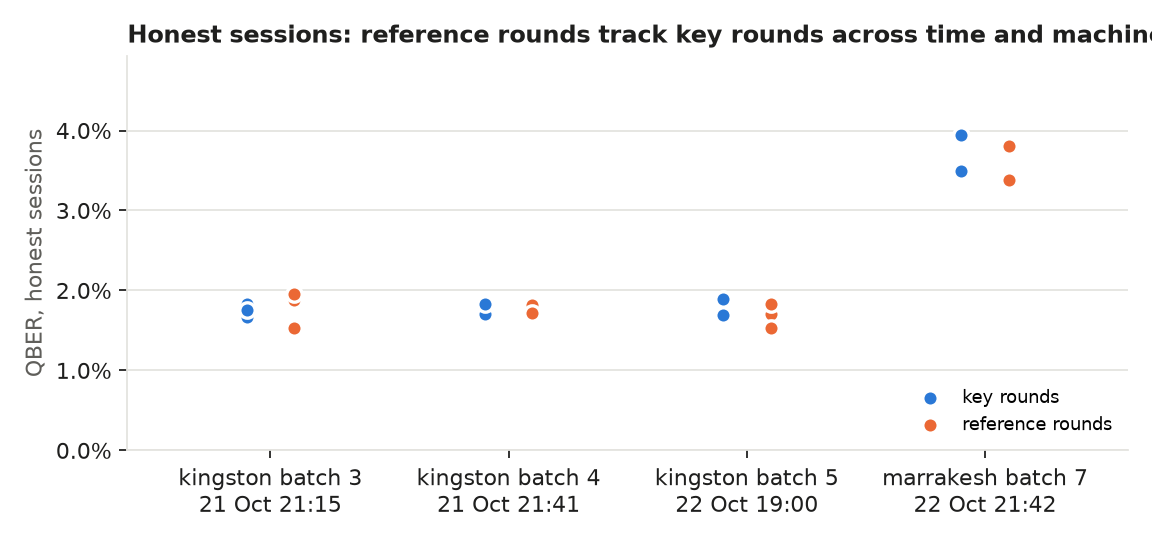
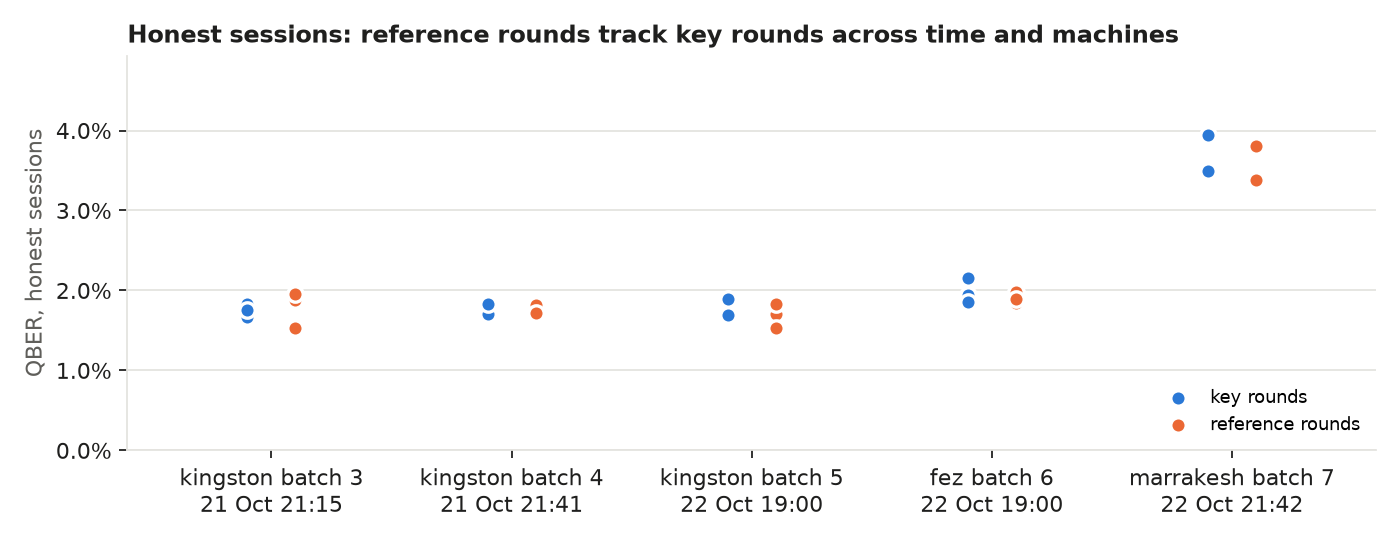
Add ibm_fez batch 6: third machine, 7 of 7 attacks flagged

diff --git a/scripts/figures.py b/scripts/figures.py
@@ -107,7 +107,7 @@ def drift() -> None:
     jobs = lessons[lessons["job_id"].isin(s["job_id"])].assign(t=lambda d: pd.to_datetime(d["submitted"]))
     jobs = jobs.sort_values("t").reset_index(drop=True)
 
-    fig, ax = plt.subplots(figsize=(7.2, 3.4))
+    fig, ax = plt.subplots(figsize=(max(7.2, 1.75 * len(jobs)), 3.4))
     kw = dict(s=48, edgecolors="white", linewidths=1.5, zorder=3)
     for i, job in jobs.iterrows():
         b = s[s["job_id"] == job["job_id"]]

diff --git a/README.md b/README.md
@@ -11,9 +11,11 @@ Quantum Key Distribution (QKD), built with Qiskit and run on IBM Quantum hardwar
 **Result on `ibm_kingston`:** across three batches 22 hours apart, Nirikshak flagged all 21
 attacked sessions (p ≤ 0.0002), including an eavesdropper touching 1 of 16 rounds, and none of
 the 9 honest ones. The textbook 11% rule caught only the largest attack, and BB84 would have kept
-producing keys through the rest. On a second, noisier machine (`ibm_marrakesh`, honest QBER 3.6%)
-it caught all 7 attacks with no retuning, while detectors trained in simulation flagged 78-83% of
-honest blocks there, and up to 88% elsewhere once noise shifted.
+producing keys through the rest. On two more machines it caught every attack with no retuning:
+7 of 7 on the noisier `ibm_marrakesh` (honest QBER 3.6%), where detectors trained in simulation
+flagged 78-83% of honest blocks, and 7 of 7 on `ibm_fez` (2.0%). Across all three machines:
+35 of 35 attacked sessions flagged, 0 of 15 honest ones. Trained detectors flagged up to 88% of
+honest blocks once noise shifted.
 
 </div>
 
@@ -162,7 +164,7 @@ flowchart LR
 | Language | Python 3.11+ (developed on 3.12) |
 | Quantum SDK | Qiskit 2.6.0, Qiskit IBM Runtime 0.50.0 (Sampler V2, job mode) |
 | Simulation | Qiskit Aer 0.18.0 (matrix product state), `FakeKingston` noise |
-| Hardware | IBM Quantum Open Plan, `ibm_kingston` and `ibm_marrakesh` (Heron r2) |
+| Hardware | IBM Quantum Open Plan, `ibm_kingston`, `ibm_marrakesh` and `ibm_fez` (Heron r2) |
 | ML | scikit-learn 1.9.1, XGBoost 3.4.1 |
 | Detectors | 11% QBER rule, sim-calibrated threshold, Random Forest, XGBoost, Nirikshak (per-session conformal) |
 | Statistics | Split-conformal thresholds, permutation test (session verdict), Clopper-Pearson intervals (SciPy) |
@@ -420,6 +422,23 @@ The 1 of 16 attack shows why the session verdict is the decision: on a noisier m
 its 20 blocks crossed the block threshold, but pooling all 20 against the reference blocks still
 flagged the session.
 
+### Third machine: `ibm_fez`, batch 6 (job `dbd104pgv2cc738h5m80`, submitted 22 Oct 19:01, ran 23 Oct 01:16)
+
+Same circuits and settings, nothing retuned. Fez's noise floor (honest QBER 1.9-2.2%, reference
+rounds 1.8-2.0%) is close to kingston's.
+
+| Condition | Key QBER | BB84 key rate | Session verdict | Nirikshak, per block | 11% rule, per block |
+| :--- | :-: | :-: | :-: | :-: | :-: |
+| Honest (3 sessions) | 1.9-2.2% | 0.70-0.73 | **0 of 3 flagged** | 8% (3%-18%) | 0% |
+| Intercept-resend, 1 of 16 rounds | 3.2% | 0.59 | **attack**, p = 0.0004 | 35% | 0% |
+| Intercept-resend, 2 of 16 rounds | 5.2% | 0.41 | **attack** | 95% | 0% |
+| Intercept-resend, 4 of 16 rounds | 7.6% | 0.22 | **attack** | 100% | 5% |
+| Intercept-resend, 8 of 16 rounds | 13.5% | 0 (abort) | **attack** | 100% | 85% |
+| Entangling probe (3 settings) | 4.3-5.7% | 0.37-0.49 | **attack** (3 of 3) | 35-90% | 0% |
+
+Here the noise matches the simulation, so the sim-trained detectors also behave (5-10% honest
+blocks flagged); Nirikshak needed no such luck on any of the three machines.
+
 ### Simulation: does the session verdict keep its 5% budget?
 
 | Simulated condition | Honest sessions | Flagged |
@@ -433,7 +452,7 @@ flagged the session.
 
 Every detector except Nirikshak is trained or calibrated on simulated data
 (`data/sim/train.parquet`) for 5% false alarms per block, then tested on drifted simulation, a
-Kingston noise snapshot and five hardware batches on two machines.
+Kingston noise snapshot and six hardware batches on three machines.
 
 | Detector | False alarms per block, worst test set | Where |
 | :--- | :-: | :--- |
@@ -443,7 +462,7 @@ Kingston noise snapshot and five hardware batches on two machines.
 | XGBoost + reference features | 25% | real hardware, batch 2 |
 | **Nirikshak** (block alarms) | **13%** (0-8% on the other sets) | real hardware, batch 5 |
 
-- When hardware noise happens to match the simulation (batches 3-5, 1.7%), the sim-trained
+- When hardware noise happens to match the simulation (kingston batches 3-5, 1.7%; `ibm_fez`, 2.0%), the sim-trained
   detectors work and detect slightly more per block than Nirikshak.
 - When it does not, they flag most honest blocks: 78-83% on `ibm_marrakesh` (3.6% noise floor),
   82-88% on batch 2 (4%) and in drifted simulation. Nirikshak flags 3% on marrakesh. In the Kingston snapshot they instead miss small attacks (22-28% vs 78%).
@@ -460,6 +479,7 @@ Kingston noise snapshot and five hardware batches on two machines.
 | 3 (`dbcdsck24mrc73cjek9g`) | matched, spin echo | 1.7% | 1.6-1.75%: fair and low |
 | 4 (`dbce8c0c77vs738641j0`) | matched, spin echo | 1.75% | 1.8-1.9% |
 | 5 (`dbd0vo424mrc73cki1l0`) | matched, spin echo, 21 h later | 1.8% | 1.6-2.5% |
+| 6, `ibm_fez` (`dbd104pgv2cc738h5m80`) | matched, spin echo | 2.0% | 1.8-2.0% |
 | 7, `ibm_marrakesh` (`dbd3bts24mrc73cklb10`) | matched, spin echo | 3.6% | 3.6-4.5% |
 
 Batch 1's detection rates (100% everywhere) were inflated by this artifact and are not
@@ -495,9 +515,9 @@ operator integration.
 
 ### Limitations
 
-- Two backends: three usable `ibm_kingston` batches over 22 hours and one `ibm_marrakesh` batch,
-  3 sessions per condition per batch.
-  Nine honest hardware sessions bound the session false-alarm rate only to 0-34%; the 5% claim
+- Three backends: three usable `ibm_kingston` batches over 22 hours, one `ibm_marrakesh` and one
+  `ibm_fez` batch, 3 sessions per condition per batch.
+  Fifteen honest hardware sessions (all clean) bound the session false-alarm rate only to 0-22%; the 5% claim
   rests on 600 simulated honest sessions.
 - Block alarms vary between sessions (up to 15% of one honest hardware session's blocks), because
   each session's threshold comes from 20 reference blocks. The session verdict does not have
@@ -543,7 +563,7 @@ The IBM Quantum Open Plan gives 10 minutes (600 s) of quantum time per rolling 2
 window per account; check yours with `get_service().usage()`. Session mode is not
 available; use job or batch mode. At most 3 jobs can be queued or running at once.
 IBM's quick usage estimate is `2 + 0.00035 x executions` seconds per job; a 10-session batch
-(25,600 executions) used 10 s. Used so far: 63 s of 600 on one account. Test every
+(25,600 executions) used 10 s. Used so far: 73 s of 600 on one account. Test every
 circuit on the simulator first, and combine circuits into few large jobs.
 
 ---

diff --git a/results/scorecard.md b/results/scorecard.md
@@ -84,6 +84,21 @@ Not used for claims: plain idle raised the noise floor (superseded by spin echo)
 | probe pi/4, 8/16 | 3.7% | 2.0% | 0.55 | 12/20 | 0/20 | 0.0001 | **attack** |
 | probe pi/4, 16/16 | 5.3% | 2.0% | 0.41 | 19/20 | 0/20 | 0.0001 | **attack** |
 
+### `ibm_fez` batch 6 (timing matched, spin echo, job `dbd104pgv2cc738h5m80`)
+
+| Session | Key QBER | Reference QBER | Key rate | Nirikshak blocks | 11% rule blocks | Session p-value | Session verdict |
+| :--- | :-: | :-: | :-: | :-: | :-: | :-: | :-: |
+| honest | 1.9% | 1.8% | 0.72 | 1/20 | 0/20 | 0.2814 | clean |
+| honest | 1.9% | 2.0% | 0.73 | 0/20 | 0/20 | 0.7557 | clean |
+| honest | 2.2% | 1.9% | 0.70 | 4/20 | 0/20 | 0.0972 | clean |
+| intercept 1/16 | 3.2% | 2.2% | 0.59 | 7/20 | 0/20 | 0.0004 | **attack** |
+| intercept 2/16 | 5.2% | 2.0% | 0.41 | 19/20 | 0/20 | 0.0001 | **attack** |
+| intercept 4/16 | 7.6% | 1.9% | 0.22 | 20/20 | 1/20 | 0.0001 | **attack** |
+| intercept 8/16 | 13.5% | 2.0% | 0.00 | 20/20 | 17/20 | 0.0001 | **attack** |
+| probe pi/8, 16/16 | 4.6% | 2.7% | 0.46 | 13/20 | 0/20 | 0.0001 | **attack** |
+| probe pi/4, 8/16 | 4.3% | 2.9% | 0.49 | 7/20 | 0/20 | 0.0001 | **attack** |
+| probe pi/4, 16/16 | 5.7% | 2.8% | 0.37 | 18/20 | 0/20 | 0.0001 | **attack** |
+
 ### `ibm_marrakesh` batch 7 (timing matched, spin echo, job `dbd3bts24mrc73cklb10`)
 
 | Session | Key QBER | Reference QBER | Key rate | Nirikshak blocks | 11% rule blocks | Session p-value | Session verdict |
@@ -98,6 +113,21 @@ Not used for claims: plain idle raised the noise floor (superseded by spin echo)
 | probe pi/8, 16/16 | 10.2% | 3.6% | 0.05 | 20/20 | 8/20 | 0.0001 | **attack** |
 | probe pi/4, 8/16 | 7.6% | 3.6% | 0.22 | 19/20 | 2/20 | 0.0001 | **attack** |
 | probe pi/4, 16/16 | 11.4% | 3.7% | 0.00 | 20/20 | 11/20 | 0.0001 | **attack** |
+
+## Real hardware, `ibm_fez`, pooled over 1 spin-echo batch(es)
+
+Honest row: false alarms. Other rows: detection.
+
+| Condition | Blocks | Nirikshak, per block | 11% rule, per block | Nirikshak, per session |
+| :--- | :-: | :-: | :-: | :-: |
+| honest | 60 | 8% (3%-18%) | 0% (0%-6%) | 0% (0%-71%) |
+| intercept 1/16 | 20 | 35% (15%-59%) | 0% (0%-17%) | 100% (3%-100%) |
+| intercept 2/16 | 20 | 95% (75%-100%) | 0% (0%-17%) | 100% (3%-100%) |
+| intercept 4/16 | 20 | 100% (83%-100%) | 5% (0%-25%) | 100% (3%-100%) |
+| intercept 8/16 | 20 | 100% (83%-100%) | 85% (62%-97%) | 100% (3%-100%) |
+| probe pi/8, 16/16 | 20 | 65% (41%-85%) | 0% (0%-17%) | 100% (3%-100%) |
+| probe pi/4, 8/16 | 20 | 35% (15%-59%) | 0% (0%-17%) | 100% (3%-100%) |
+| probe pi/4, 16/16 | 20 | 90% (68%-99%) | 0% (0%-17%) | 100% (3%-100%) |
 
 ## Real hardware, `ibm_kingston`, pooled over 3 spin-echo batch(es)
 

diff --git a/results/stress_test.md b/results/stress_test.md
@@ -91,6 +91,17 @@ All detectors except Nirikshak were trained or calibrated on `data/sim/train.par
 | intercept 8/16 rounds | 100% | 100% | 100% | 100% | 100% | 100% |
 | entangling probe (all) | 0% | 90% | 88% | 88% | 90% | 77% |
 
+## hardware: ibm_fez batch 6 (timing matched, spin echo)
+
+| Condition | 11% rule | sim-calibrated threshold | Random Forest (sim-trained) | XGBoost (sim-trained) | XGBoost + reference features | Nirikshak |
+| :--- | :-: | :-: | :-: | :-: | :-: | :-: |
+| honest (false alarms) | 0% | 10% | 5% | 5% | 7% | 8% |
+| intercept 1/16 rounds | 0% | 65% | 60% | 60% | 45% | 35% |
+| intercept 2/16 rounds | 0% | 95% | 95% | 95% | 95% | 95% |
+| intercept 4/16 rounds | 5% | 100% | 100% | 100% | 100% | 100% |
+| intercept 8/16 rounds | 85% | 100% | 100% | 100% | 100% | 100% |
+| entangling probe (all) | 0% | 97% | 95% | 97% | 77% | 63% |
+
 ## hardware: ibm_marrakesh batch 7 (timing matched, spin echo)
 
 | Condition | 11% rule | sim-calibrated threshold | Random Forest (sim-trained) | XGBoost (sim-trained) | XGBoost + reference features | Nirikshak |
